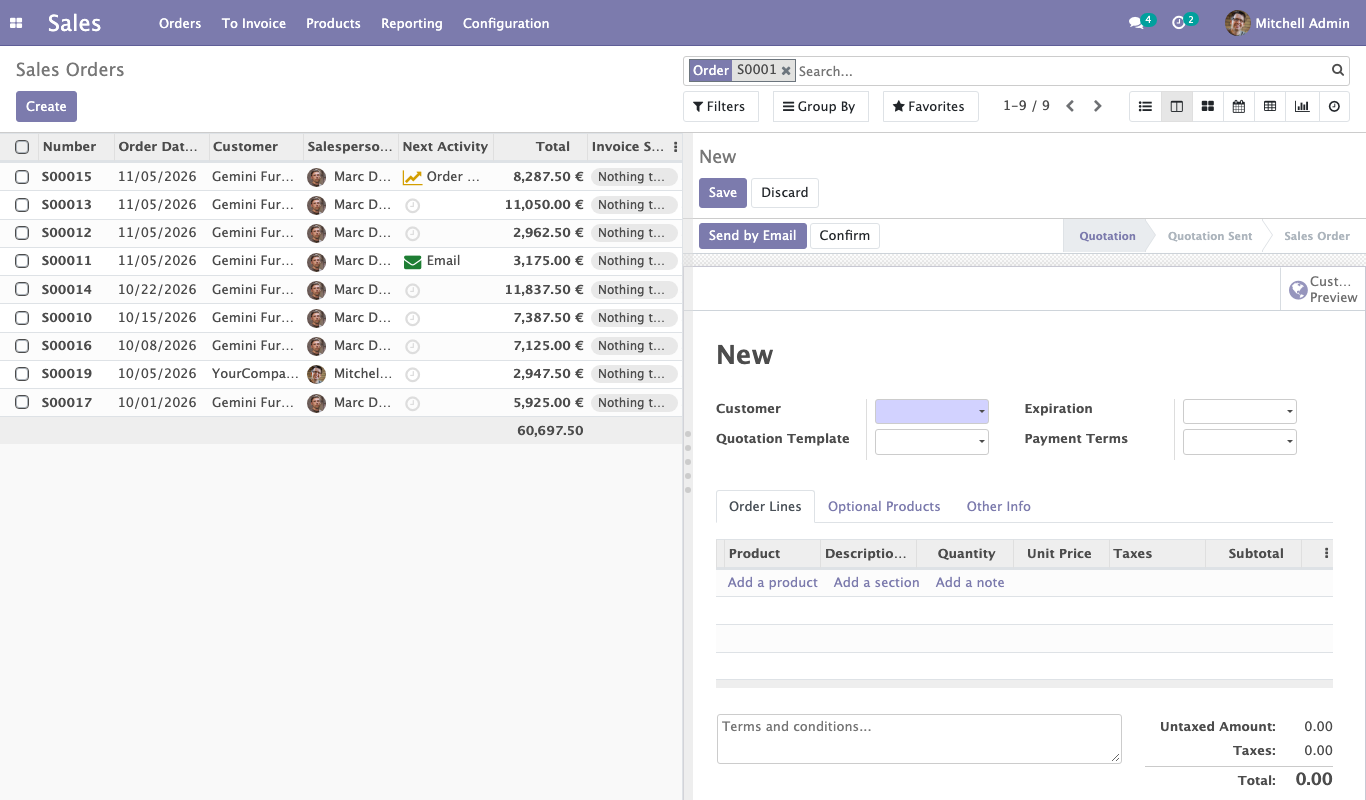
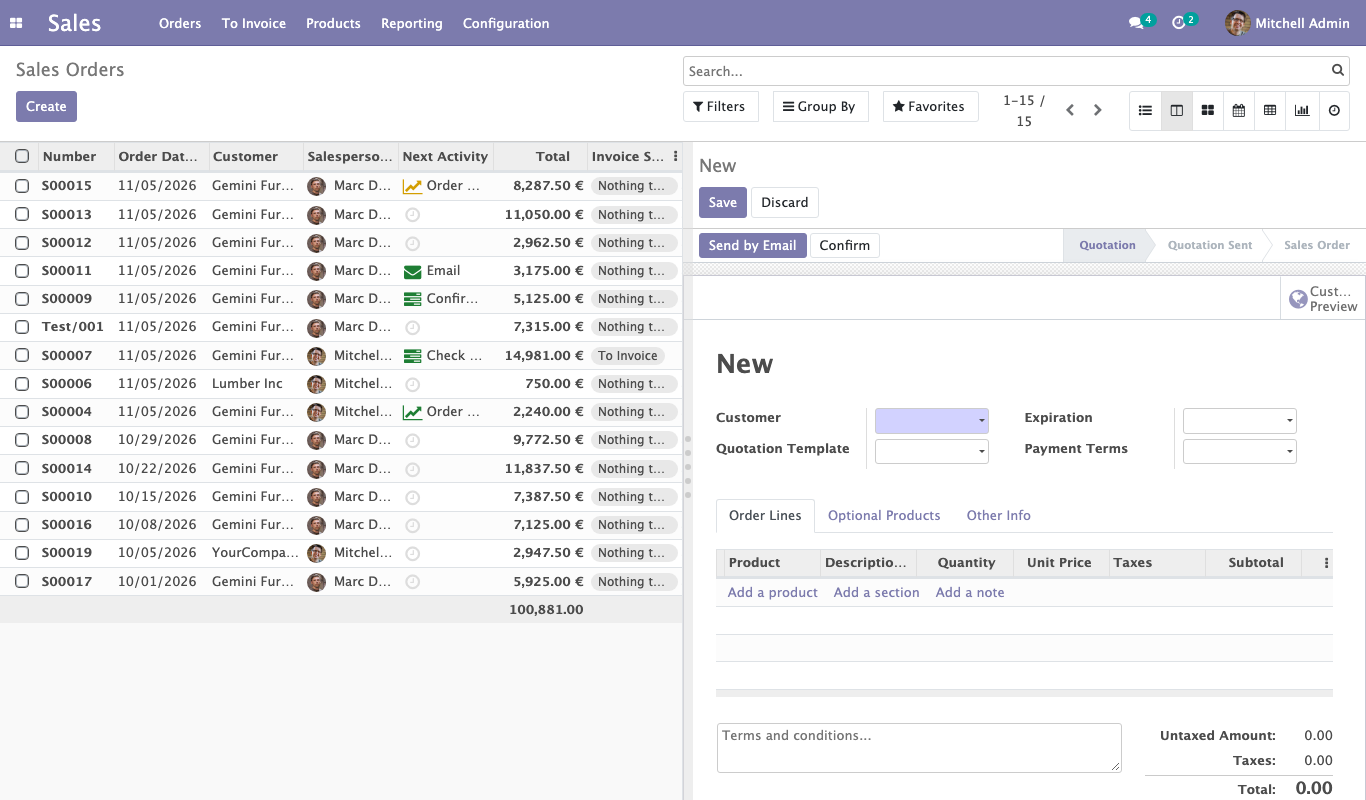
[IMP] web_split_view: automatic Split mode on every list, expand to full form, state kept, settings, OPL-1 / 39 USD, new description
Claude-Session: https://claude.ai/code/session_01MswwjzxQJzBYDNJzdTwzsA

diff --git a/web_split_view/static/src/js/split_view.js b/web_split_view/static/src/js/split_view.js
@@ -183,7 +183,12 @@ odoo.define("awesome.splitView", function (require) {
 
         _highlightActiveRow: function () {
             const rows = Array.from(this.listController.renderer.el.querySelectorAll('tr.o_data_row'));
-            rows.forEach(node => node.classList.toggle('split_active_row', !!this.activeId && node.dataset.id && this.listController.model.get(node.dataset.id, { raw: true }).res_id === this.activeId));
+            rows.forEach(node => {
+                // Odoo 12 keeps the row id in jQuery data only (no data-id attribute)
+                const id = $(node).data('id') || node.dataset.id;
+                const active = !!this.activeId && !!id && this.listController.model.get(id, { raw: true }).res_id === this.activeId;
+                node.classList.toggle('split_active_row', active);
+            });
         },
 
         /**
